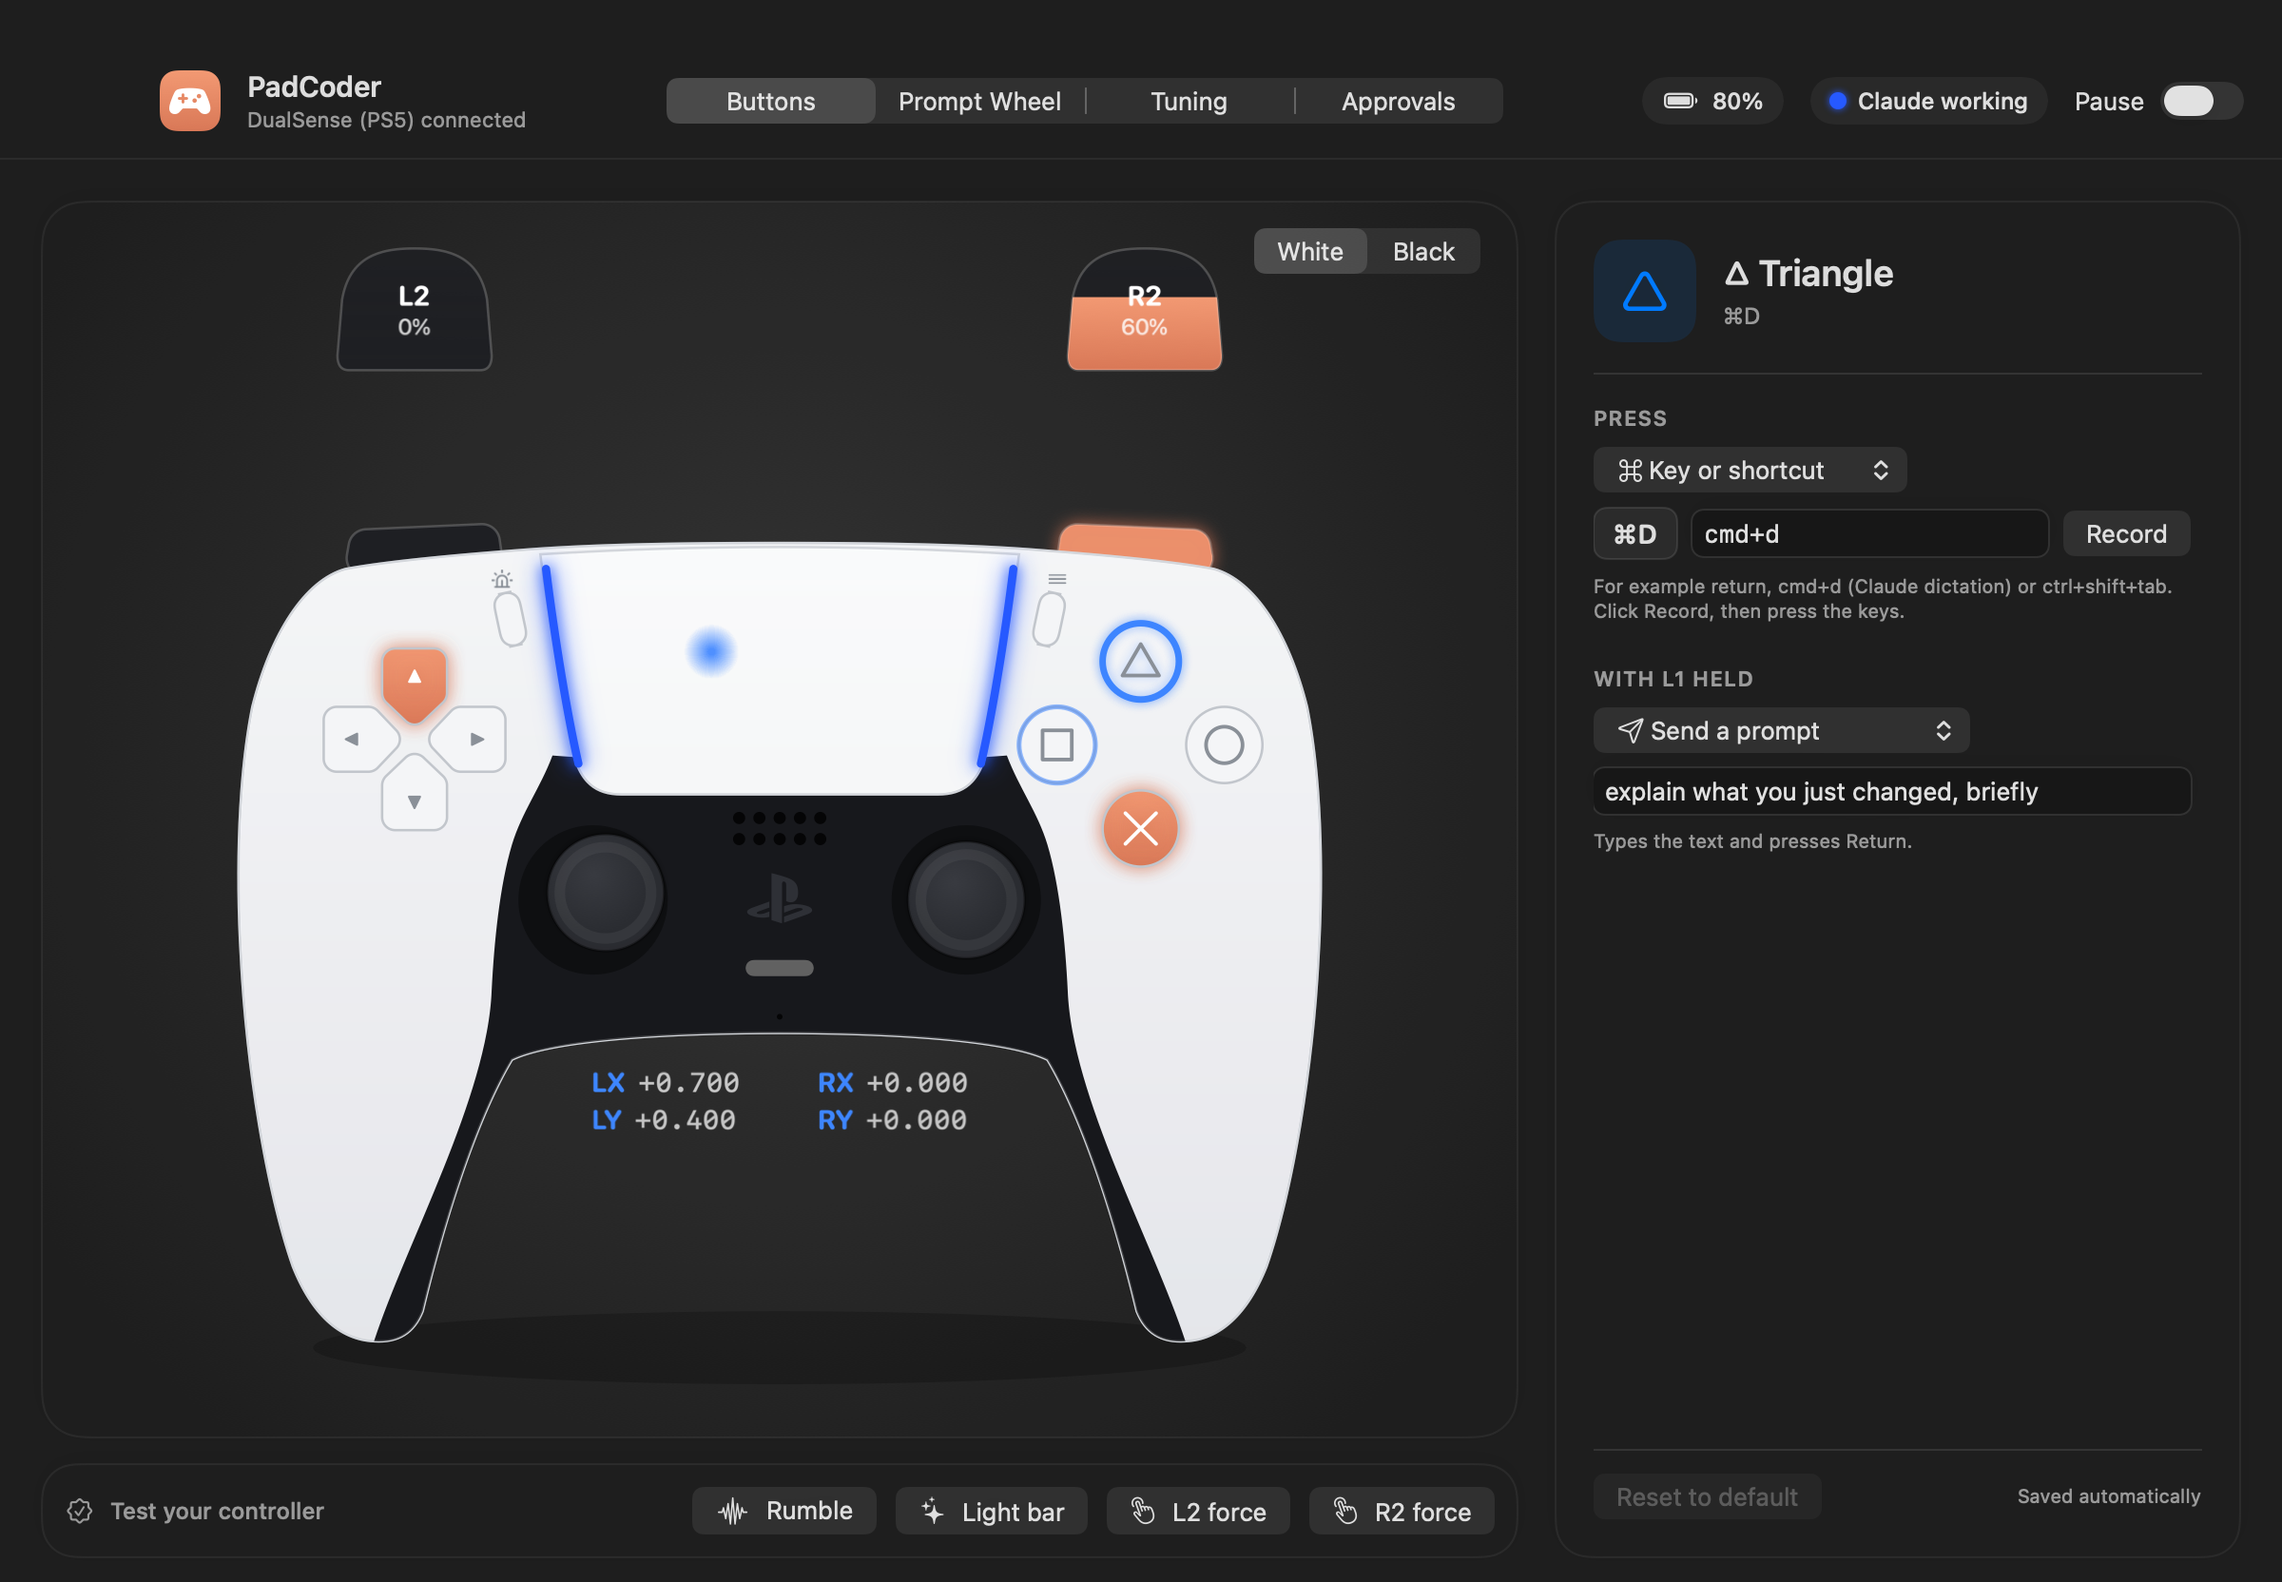
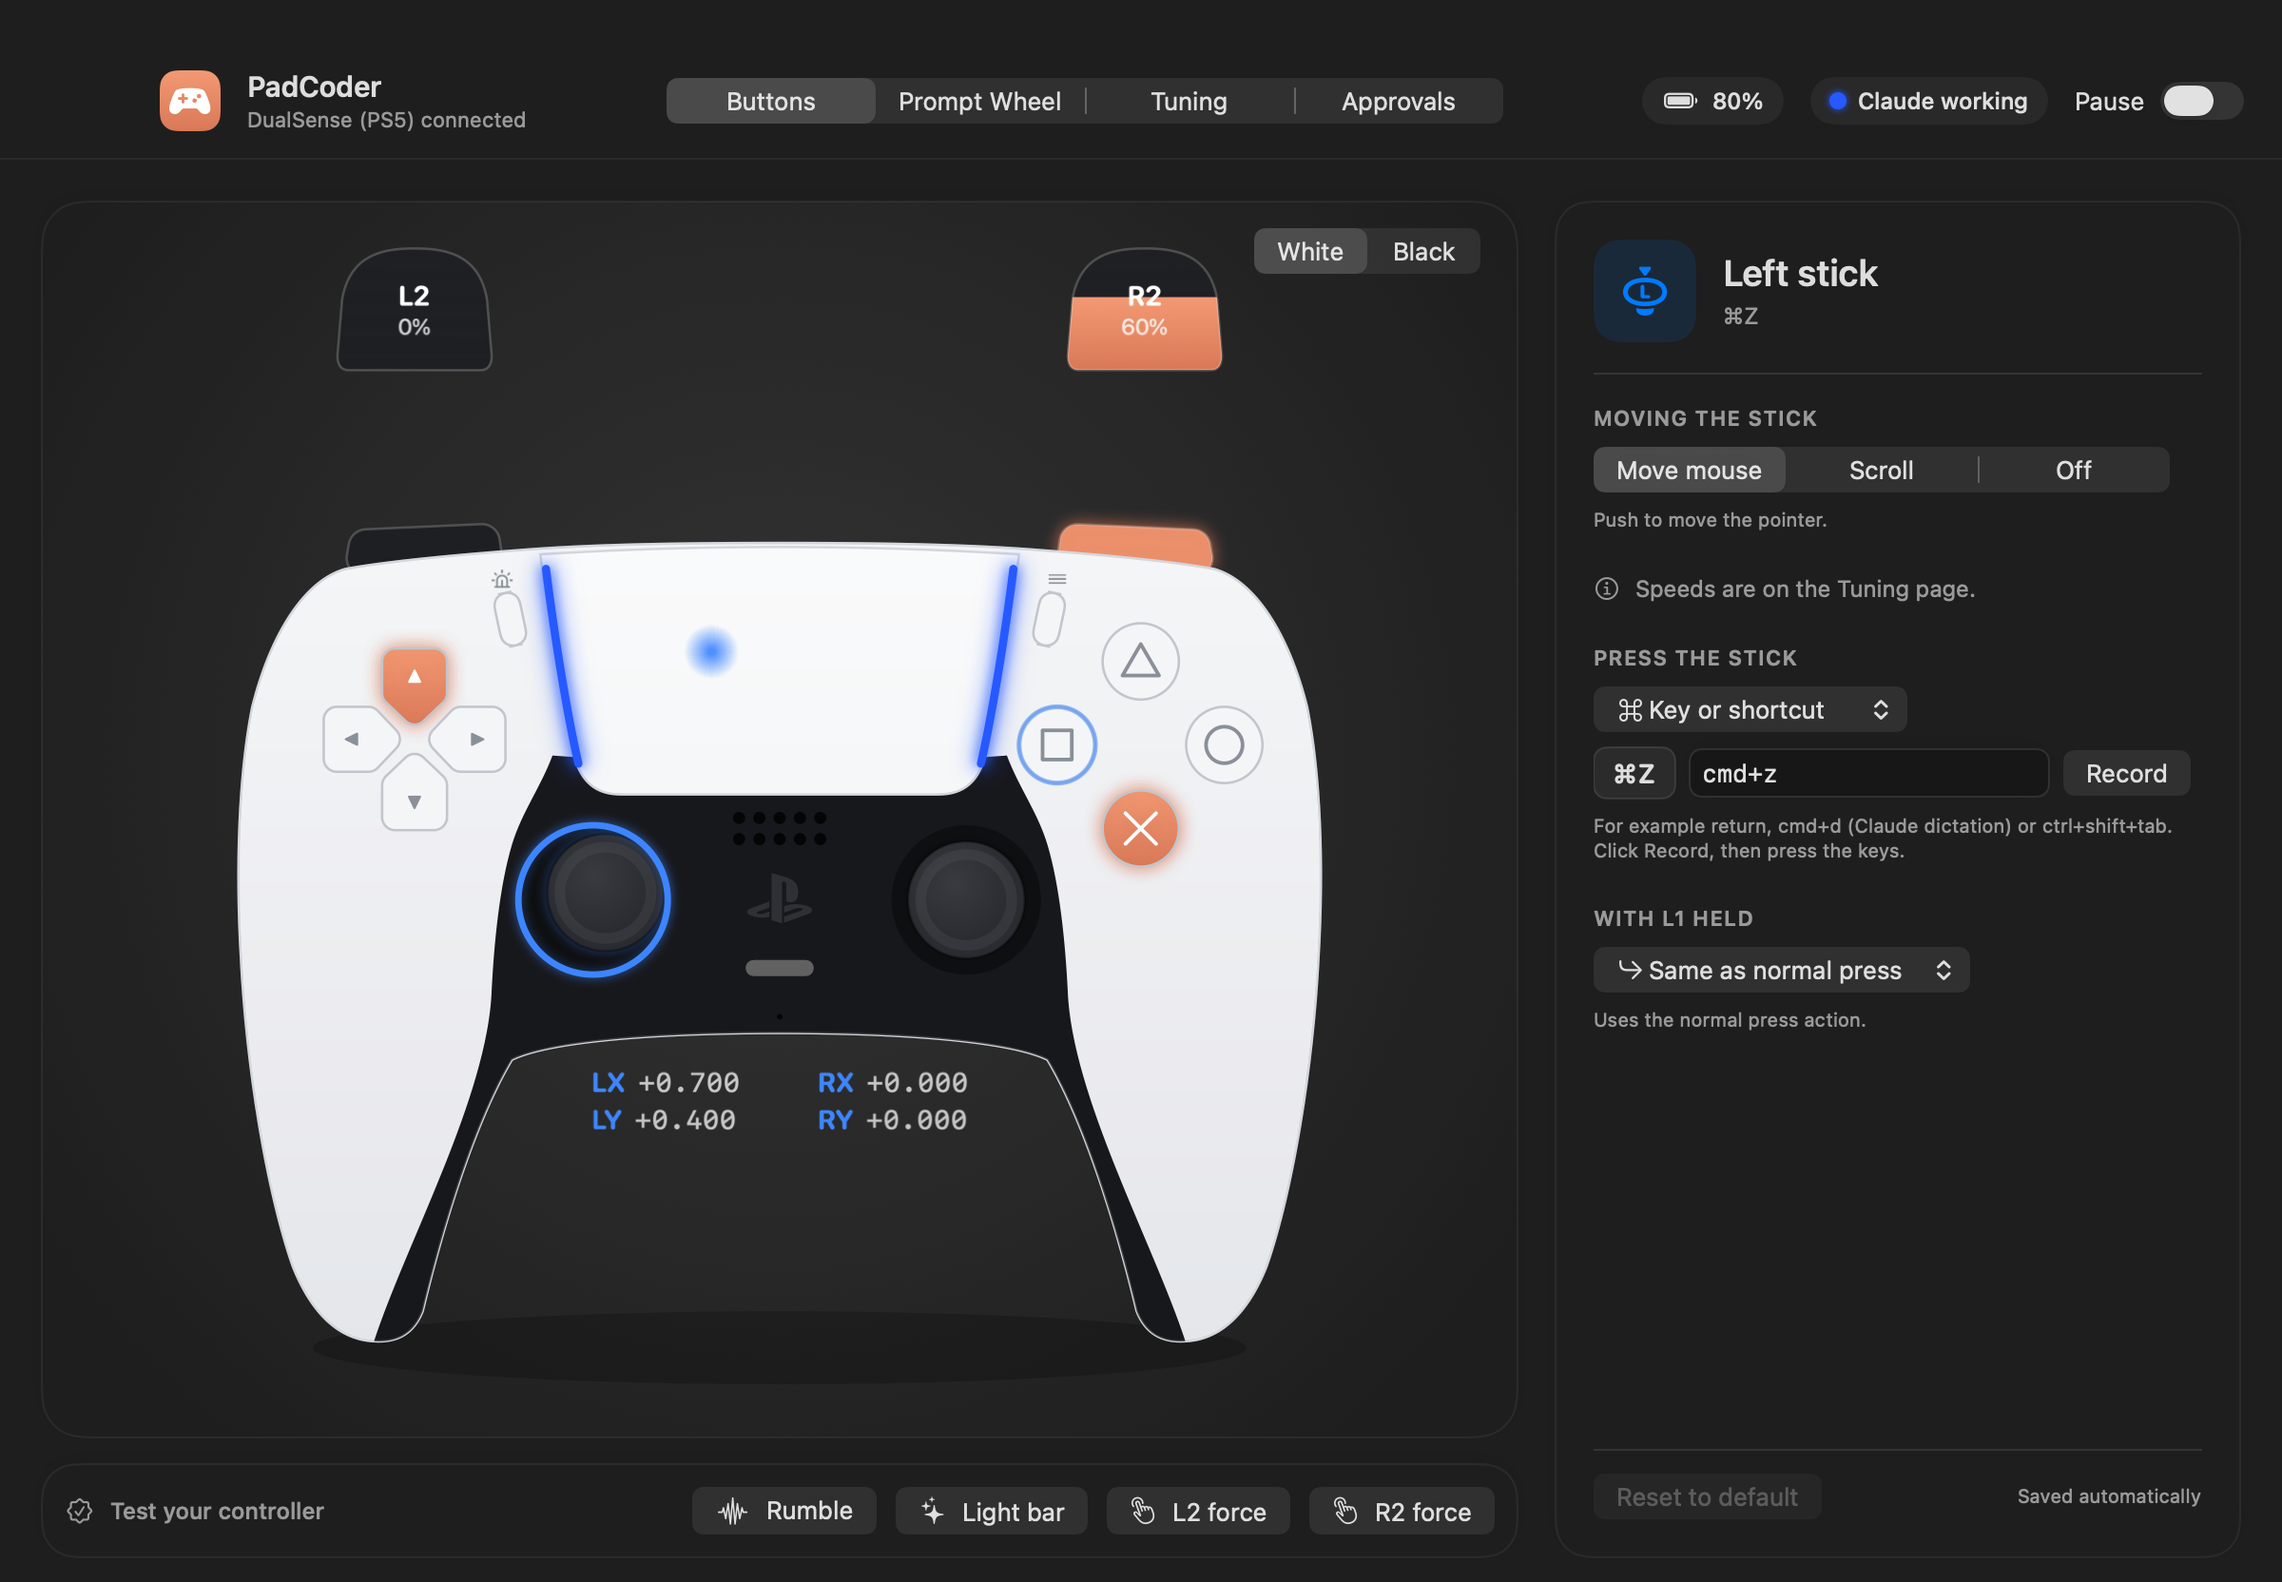
Add a per-stick mode: move the mouse, scroll, or off
Each stick can now be set to move the mouse, scroll, or do nothing, from the
inspector when a stick is selected or from the Tuning page. Pressing the
stick (L3/R3) and the L1 prompt wheel keep working whatever the mode.

diff --git a/Sources/SettingsView.swift b/Sources/SettingsView.swift
@@ -256,6 +256,9 @@ struct InspectorPanel: View {
                     if let note = reserved(name) {
                         Text(note).foregroundColor(.secondary).fixedSize(horizontal: false, vertical: true)
                     } else {
+                        if name == "l3" || name == "r3" {
+                            StickModePicker(title: "Moving the stick", value: store.text(nil, name == "l3" ? "leftStick" : "rightStick"))
+                        }
                         if let hint = hint(name) {
                             Label(hint, systemImage: "info.circle").font(.callout).foregroundColor(.secondary)
                                 .fixedSize(horizontal: false, vertical: true)
@@ -301,8 +304,8 @@ struct InspectorPanel: View {
 
     private func hint(_ name: String) -> String? {
         switch name {
-        case "l3": return "Moving the left stick moves the mouse. Set its speed in Tuning."
-        case "r3": return "Moving the right stick scrolls. With L1 held, it aims the prompt wheel."
+        case "l3": return "Speeds are on the Tuning page."
+        case "r3": return "With L1 held, the right stick always aims the prompt wheel."
         case "touchpad": return "One finger moves the mouse, and two fingers scroll."
         default: return nil
         }
@@ -462,6 +465,29 @@ struct ActionEditor: View {
     }
 }
 
+/// What moving a stick does: move the mouse, scroll, or nothing.
+struct StickModePicker: View {
+    let title: String
+    @Binding var value: String
+
+    var body: some View {
+        VStack(alignment: .leading, spacing: 8) {
+            SectionLabel(text: title)
+            Picker("", selection: $value) {
+                Text("Move mouse").tag("mouse")
+                Text("Scroll").tag("scroll")
+                Text("Off").tag("off")
+            }
+            .pickerStyle(.segmented)
+            .labelsHidden()
+            Text(value == "off" ? "The stick is ignored. Pressing it still works."
+                 : value == "scroll" ? "Push to scroll the window under the pointer."
+                 : "Push to move the pointer.")
+                .font(.caption).foregroundColor(.secondary)
+        }
+    }
+}
+
 let reverseKeyCodes: [CGKeyCode: String] = {
     var names: [CGKeyCode: String] = [:]
     for (name, code) in keyCodes where names[code] == nil || ["return", "backspace", "escape"].contains(name) {
@@ -574,6 +600,8 @@ struct TuningPage: View {
     var body: some View {
         HStack(alignment: .top, spacing: 20) {
             group("Sticks", "l.joystick") {
+                StickModePicker(title: "Left stick", value: store.text(nil, "leftStick"))
+                StickModePicker(title: "Right stick", value: store.text(nil, "rightStick"))
                 slider("Mouse speed", store.number(nil, "mouseSpeed", 1900), 400...4000)
                 slider("Scroll speed", store.number(nil, "scrollSpeed", 2400), 400...5000)
                 slider("Deadzone", store.number(nil, "stickDeadzone", 0.12), 0.02...0.4)

diff --git a/Sources/PadCoder.swift b/Sources/PadCoder.swift
@@ -333,17 +333,26 @@ final class PadCoder {
         let mouseSpeed = config.double("mouseSpeed", 1900)
         let scrollSpeed = config.double("scrollSpeed", 2400)
         let invert = config.bool("invertScroll", false) ? -1.0 : 1.0
+        // What moving each stick does: "mouse", "scroll" or "off".
+        func drive(_ mode: String, _ x: Float, _ y: Float) {
+            let cx = curve(x, deadzone), cy = curve(y, deadzone)
+            guard cx != 0 || cy != 0 else { return }
+            switch mode {
+            case "mouse": mouse.move(dx: cx * mouseSpeed * dt, dy: -cy * mouseSpeed * dt)
+            case "scroll": mouse.scroll(dx: -cx * scrollSpeed * dt * invert, dy: cy * scrollSpeed * dt * invert)
+            default: break
+            }
+        }
+        let leftMode = config.string("leftStick", "mouse"), rightMode = config.string("rightStick", "scroll")
         for ps in pads.values {
             let pad = ps.pad
-            let mx = curve(pad.leftThumbstick.xAxis.value, deadzone), my = curve(pad.leftThumbstick.yAxis.value, deadzone)
-            if mx != 0 || my != 0 { mouse.move(dx: mx * mouseSpeed * dt, dy: -my * mouseSpeed * dt) }
+            drive(leftMode, pad.leftThumbstick.xAxis.value, pad.leftThumbstick.yAxis.value)
 
             let rx = pad.rightThumbstick.xAxis.value, ry = pad.rightThumbstick.yAxis.value
             if ps.l1DownAt != nil {
                 updateWheel(ps, rx, ry, now)                 // right stick aims the wheel while L1 is held
             } else {
-                let sx = curve(rx, deadzone), sy = curve(ry, deadzone)
-                if sx != 0 || sy != 0 { mouse.scroll(dx: -sx * scrollSpeed * dt * invert, dy: sy * scrollSpeed * dt * invert) }
+                drive(rightMode, rx, ry)
             }
             if ps.gyro { applyGyro(ps, dt, now) }
         }

diff --git a/Sources/Config.swift b/Sources/Config.swift
@@ -11,6 +11,7 @@ let activeFlagURL = supportDir.appendingPathComponent("active")
 /// Actions: a key combo ("return", "cmd+d", "ctrl+shift+tab"), "send:<text>" (type + Return),
 /// "type:<text>", "leftClick", "rightClick", "gyro" (hold to aim), "dictation" (macOS), "pause", "none".
 /// Wheel slots run clockwise from the top: up, up-right, right, down-right, down, down-left, left, up-left.
+/// leftStick / rightStick: what moving the stick does, "mouse", "scroll" or "off".
 let defaultConfigJSON = """
 {
   "buttons": {
@@ -65,6 +66,8 @@ let defaultConfigJSON = """
     "invertY": false,
     "horizontalAxis": "y"
   },
+  "leftStick": "mouse",
+  "rightStick": "scroll",
   "mouseSpeed": 1900,
   "scrollSpeed": 2400,
   "invertScroll": false,
@@ -122,6 +125,7 @@ final class Config {
     func action(_ button: String, layer: Bool) -> String? { section(layer ? "l1Layer" : "buttons")[button] as? String }
     func double(_ key: String, _ fallback: Double) -> Double { (data[key] as? NSNumber)?.doubleValue ?? fallback }
     func bool(_ key: String, _ fallback: Bool) -> Bool { data[key] as? Bool ?? fallback }
+    func string(_ key: String, _ fallback: String) -> String { data[key] as? String ?? fallback }
     var wheel: [String] { Array(((data["wheel"] as? [String]) ?? []).prefix(8)) }
 }
 

diff --git a/Sources/Snapshot.swift b/Sources/Snapshot.swift
@@ -12,7 +12,7 @@ func renderSnapshots(to dir: URL) {
     let token = NSObject()
     let model = LiveModel()
     model.pressed = ["cross", "r1", "up"]
-    model.selected = "triangle"
+    model.selected = "l3"
     model.hovered = "square"
     model.leftStick = CGPoint(x: 0.7, y: 0.4)
     model.r2 = 0.6

diff --git a/README.md b/README.md
@@ -37,7 +37,7 @@ Open it from 🎮 → **Open PadCoder…**, or open the app again from Spotlight
   - Click any part to change what it does, or use **Record** to capture a shortcut.
   - Test buttons for rumble, the light bar, and L2/R2 trigger force (DualSense only).
 - **Prompt Wheel**: the 8 wheel prompts and the 4 quick prompts.
-- **Tuning**: stick, scroll, touchpad and gyro speeds, plus the invert switches.
+- **Tuning**: what each stick does (move the mouse, scroll, or off), stick, scroll, touchpad and gyro speeds, and the invert switches.
 - **Approvals**: approve from the pad on/off, and how long to wait.
 
 While the window is in front, the controller only lights things up there. It won't type or click.
@@ -52,7 +52,7 @@ While the window is in front, the controller only lights things up there. It won
 | △ Triangle | **Cmd+D**: Claude's dictation |
 | Options ≡ | **Cmd+Return**: accept a suggested task / submit a dialog |
 | D-pad | Arrow keys (hold to repeat) |
-| Left stick | Move the mouse |
+| Left stick | Move the mouse. Each stick can be set to move the mouse, scroll, or off. |
 | Right stick | Scroll |
 | R1 (hold) | **Gyro aim**: tilt the pad to fine-move the mouse |
 | R2 / L2 | Left click (hold to drag) / right click |
@@ -123,6 +123,8 @@ Actions:
 - `"send:text"` types the text and presses Return; `"type:text"` types it without Return
 - `"leftClick"`, `"rightClick"`, `"gyro"`, `"pause"`, `"dictation"` (macOS dictation), `"none"`
 - in `l1Layer`, `""` means "same as the normal press"
+
+`leftStick` and `rightStick` set what moving each stick does: `"mouse"`, `"scroll"` or `"off"`.
 
 ## Development
 - `./build.sh` builds `PadCoder.app` in the repo.
